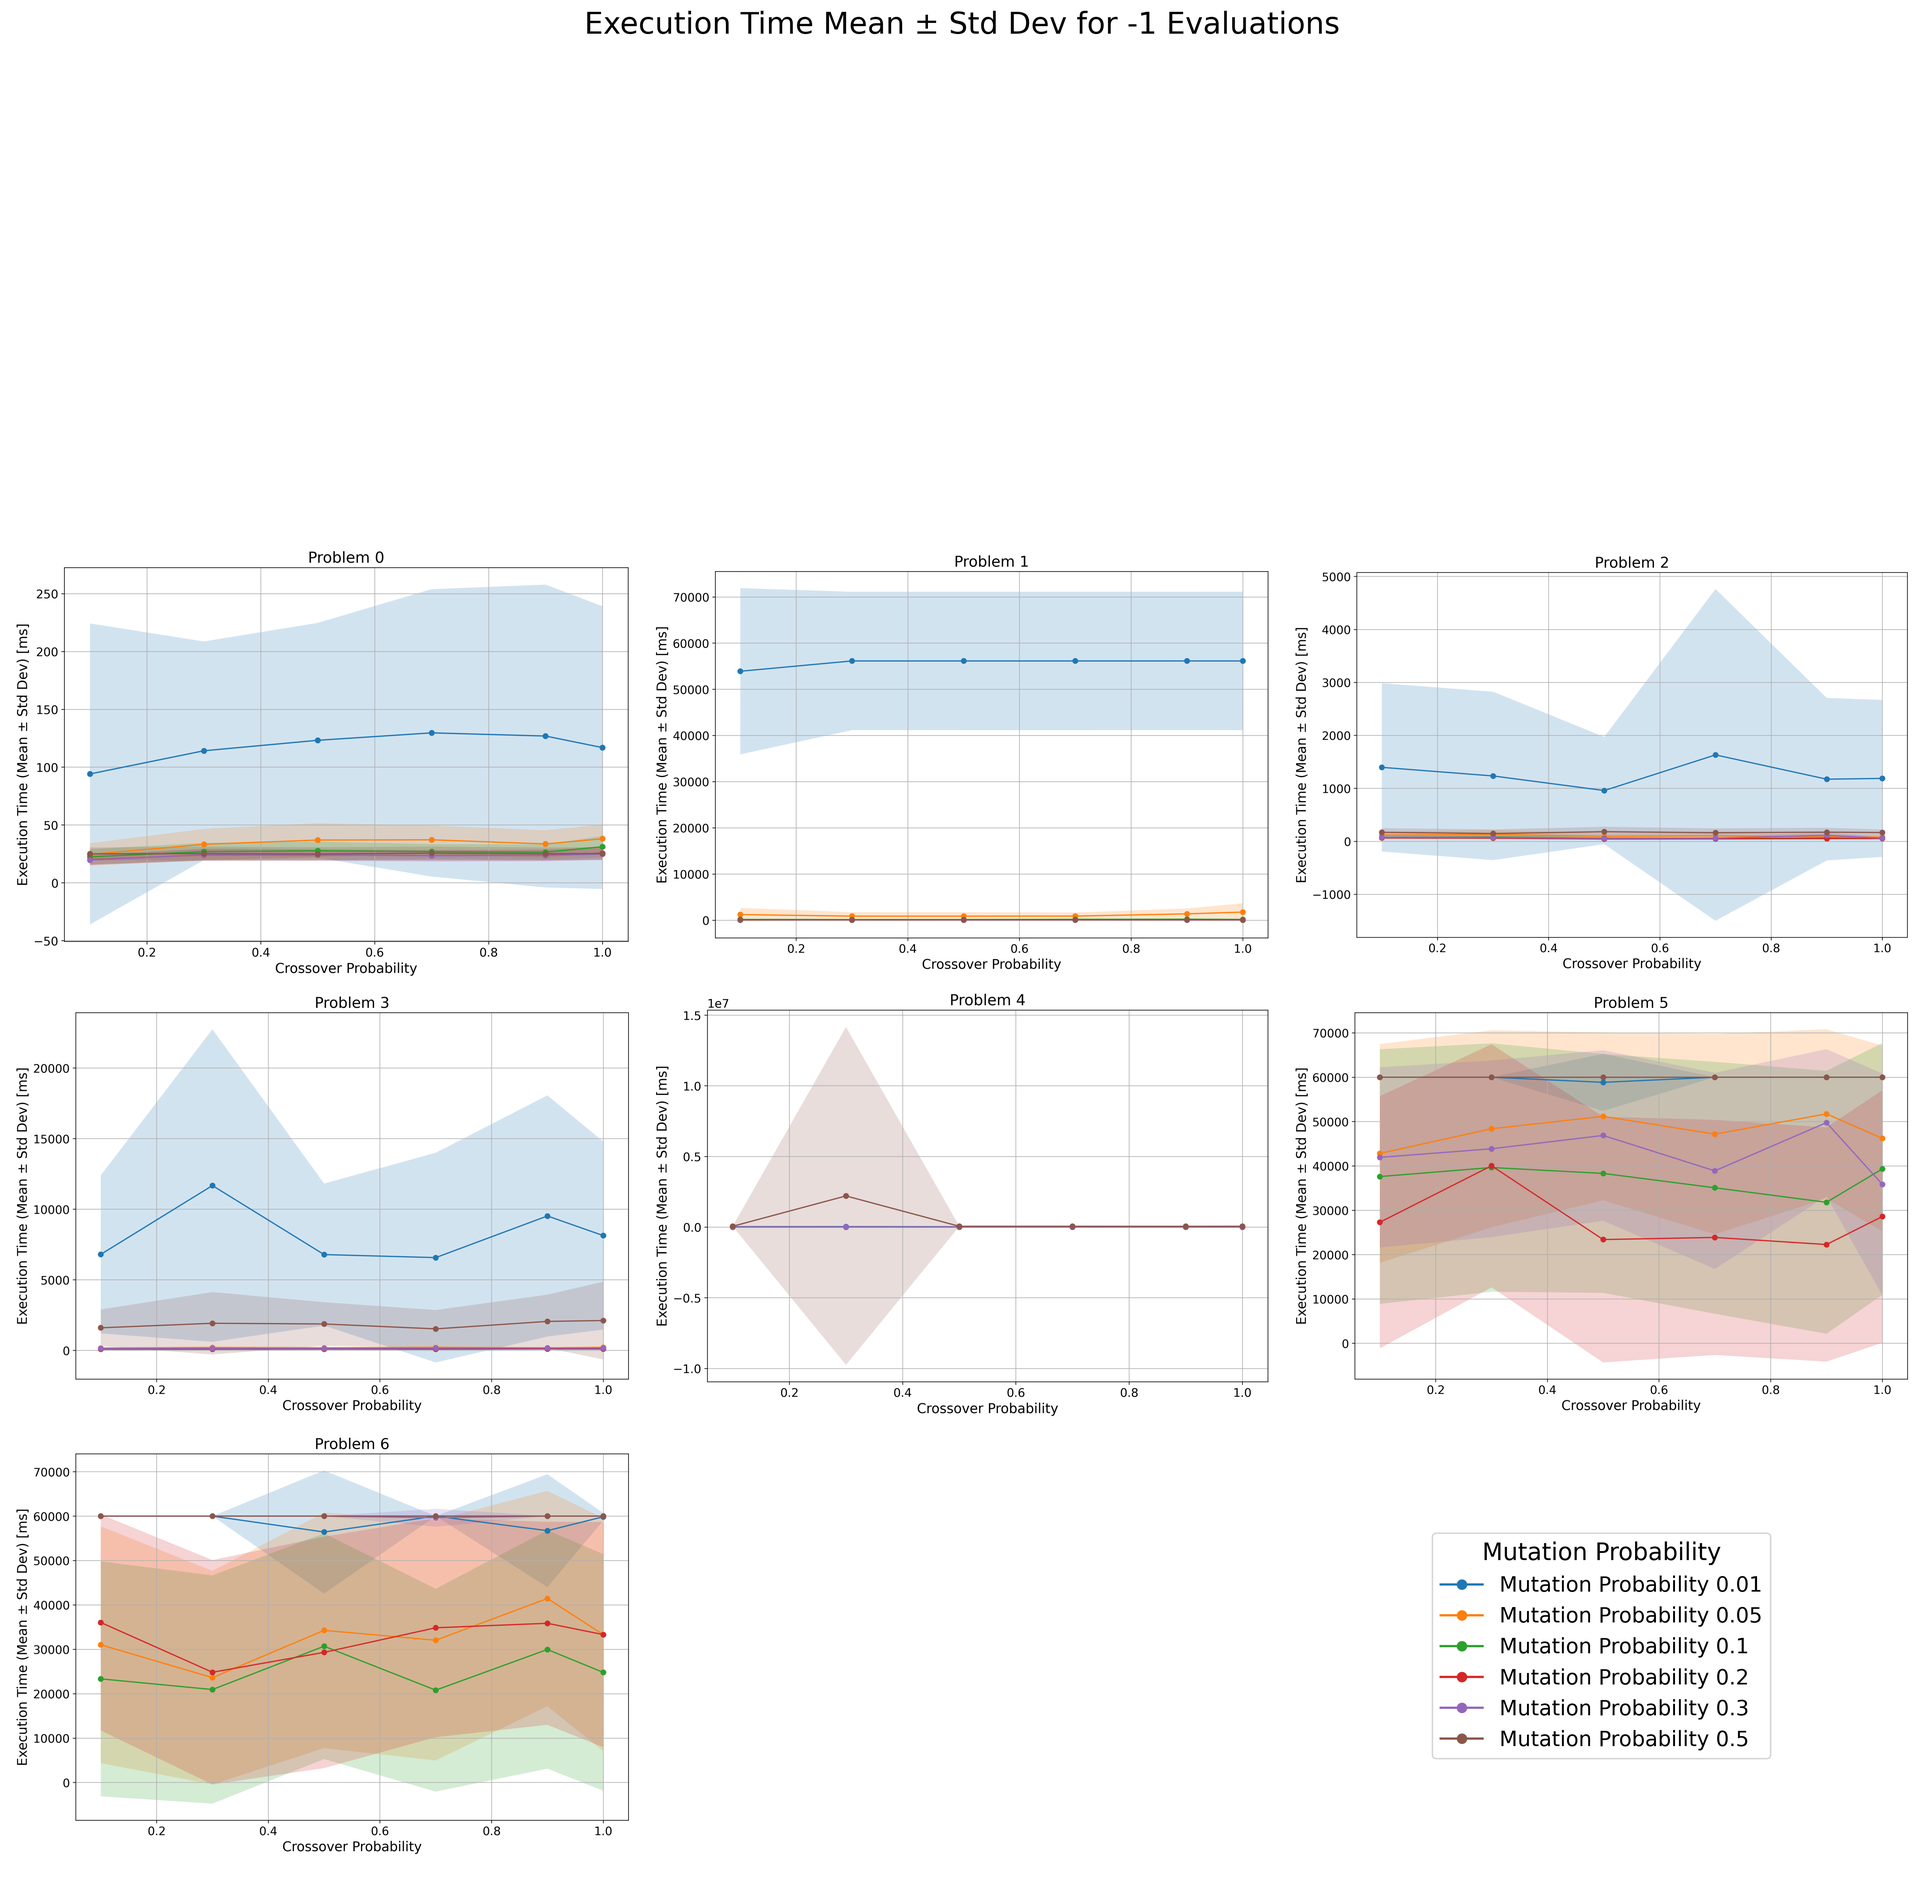
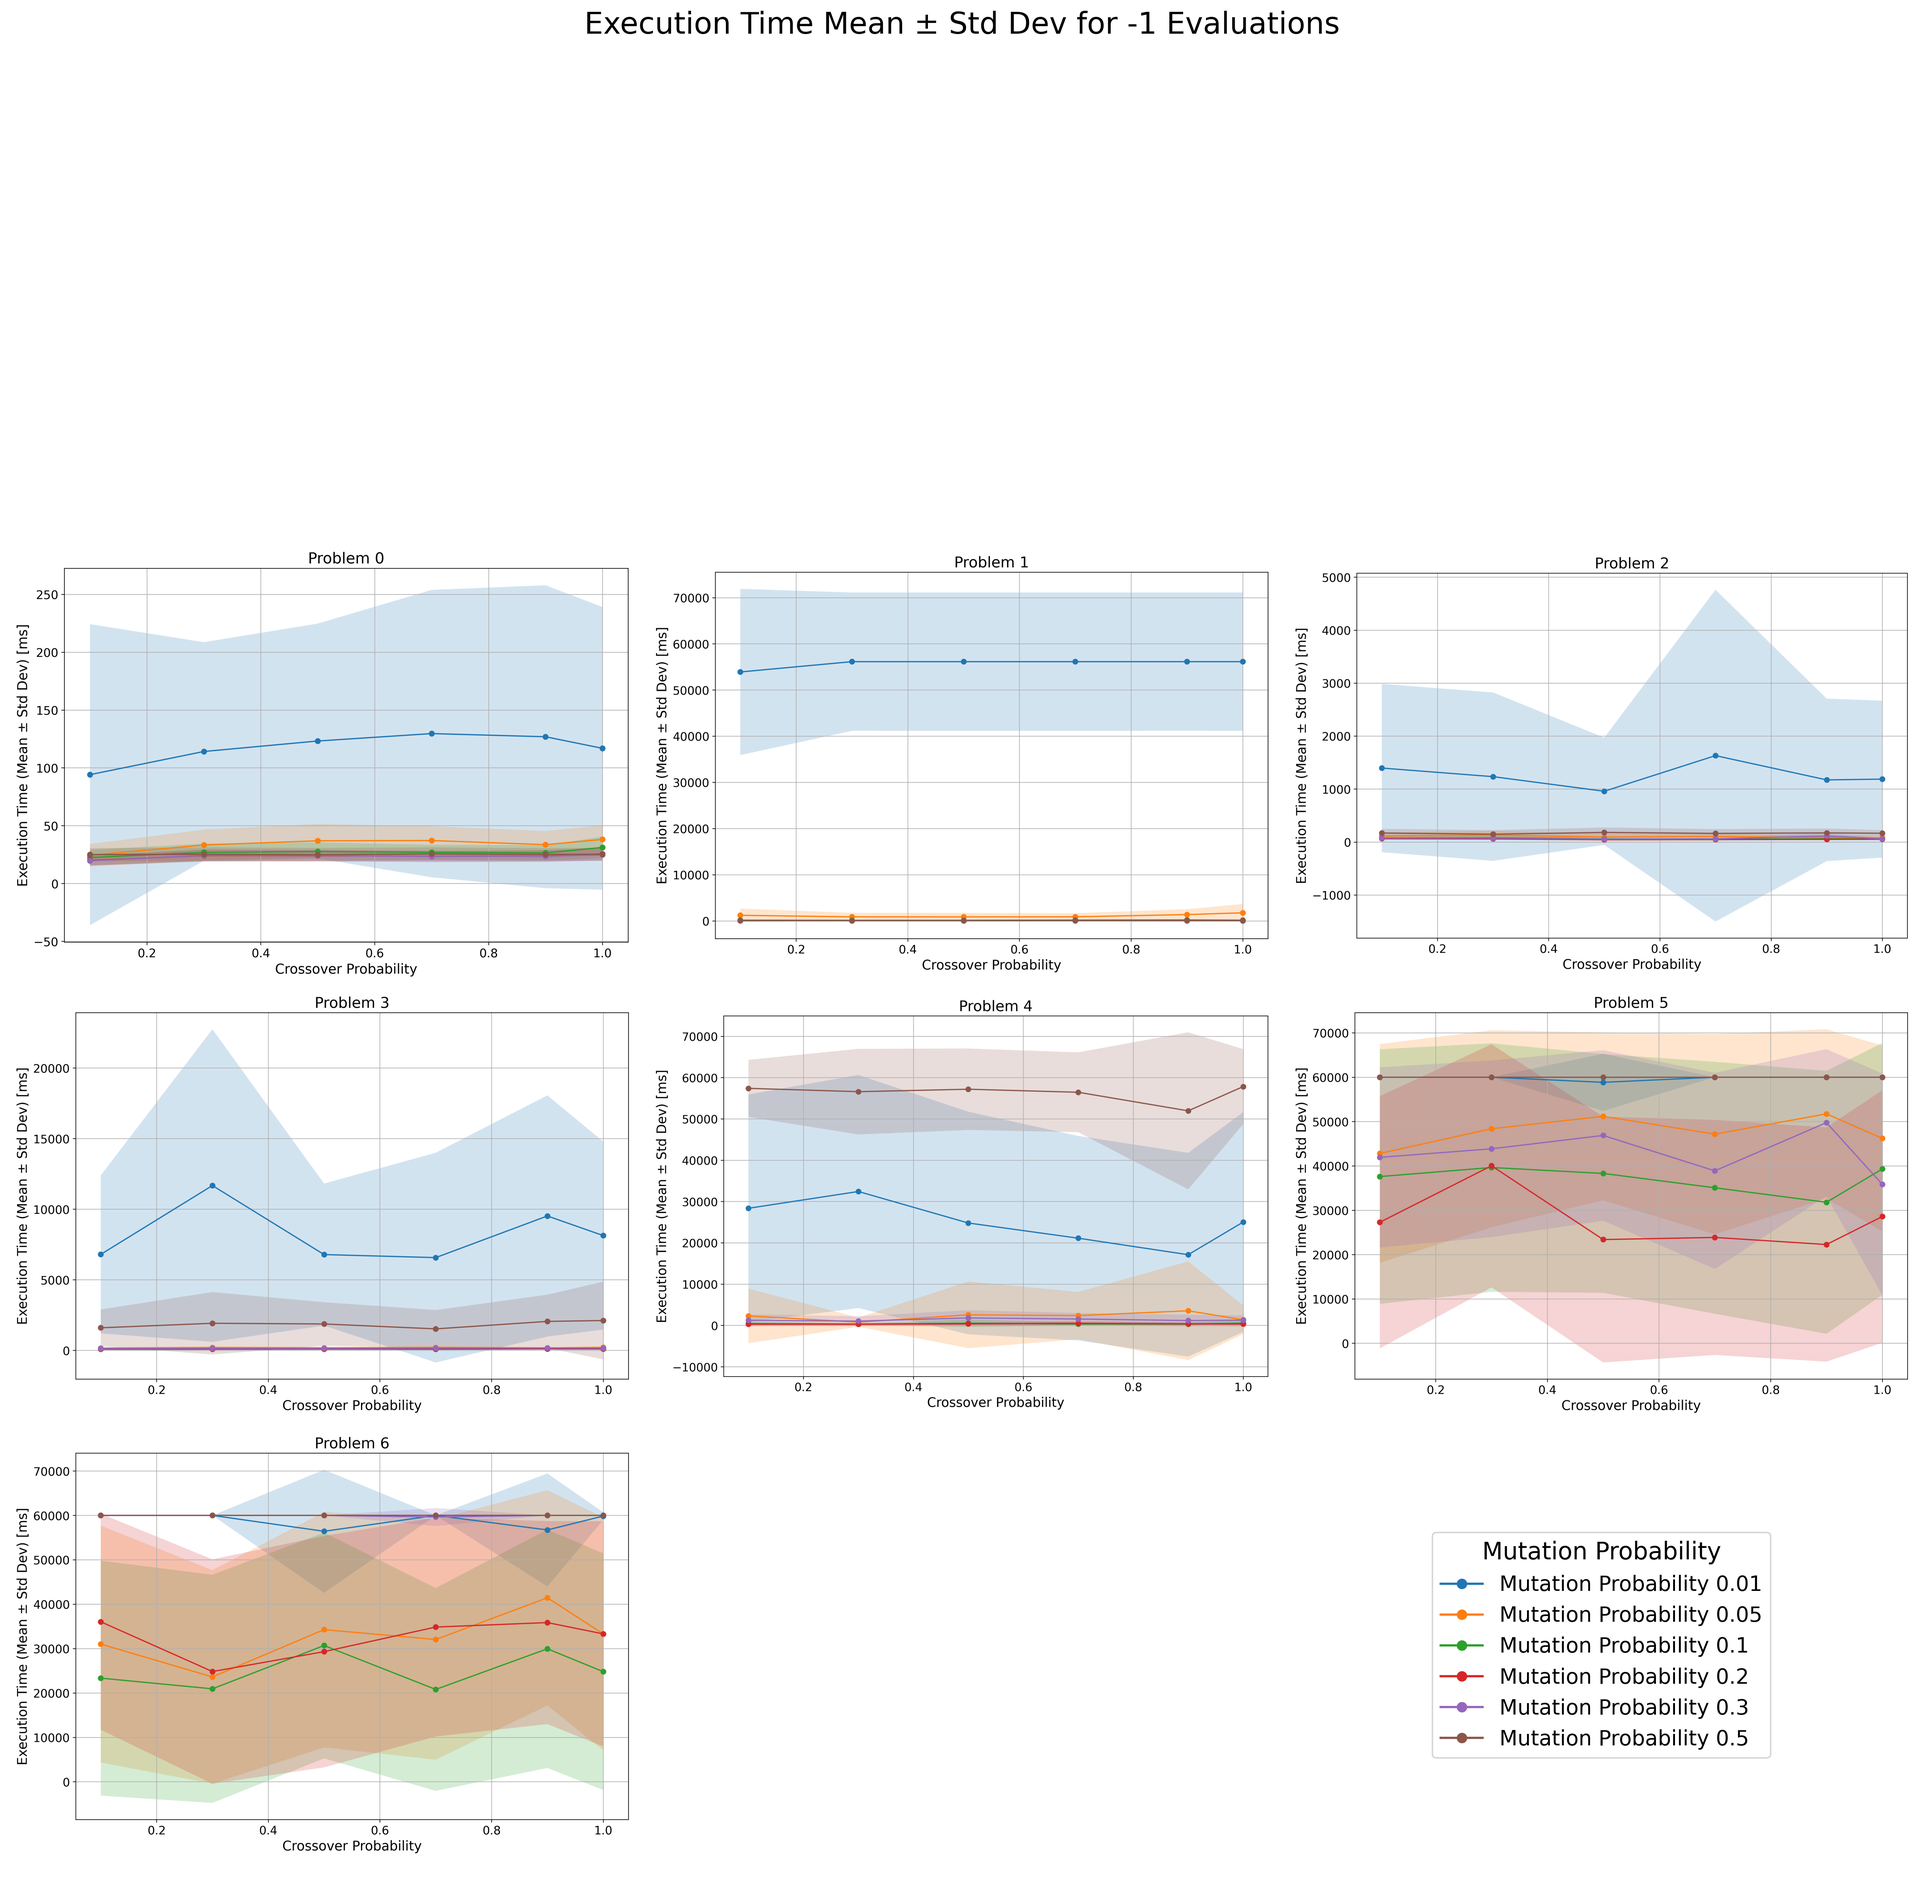
Fix error in results Change:
/home/javier/Documents/Graduate/UIMP_MUIIA/2_METAHURISTICOS/assignments/project/KnapsackGeneticAlgorithm/results/experiment_all/function_evaluations_-1/problem_4/crossover_0.3/mutation_0.5/results_7.json
  "executionTime": 66630462,

diff --git a/analysis/-1_evaluations/problem_4.tex b/analysis/-1_evaluations/problem_4.tex
@@ -16,7 +16,7 @@ Crossover Probability & Mutation Probability & Mean Fitness & Std Fitness & Mean
 0.30 & 0.10 & 12400.00 & 0.00 & 302.03 & 262.17 \\
 0.30 & 0.20 & 12400.00 & 0.00 & 305.77 & 264.33 \\
 0.30 & 0.30 & 12400.00 & 0.00 & 1047.19 & 1184.20 \\
-0.30 & 0.50 & 12363.87 & 25.39 & 2204021.06 & 11957045.87 \\
+0.30 & 0.50 & 12363.87 & 25.39 & 56586.81 & 10360.70 \\
 0.50 & 0.01 & 12376.77 & 98.37 & 24795.35 & 26933.66 \\
 0.50 & 0.05 & 12400.00 & 0.00 & 2566.45 & 8067.82 \\
 0.50 & 0.10 & 12400.00 & 0.00 & 539.94 & 900.51 \\
